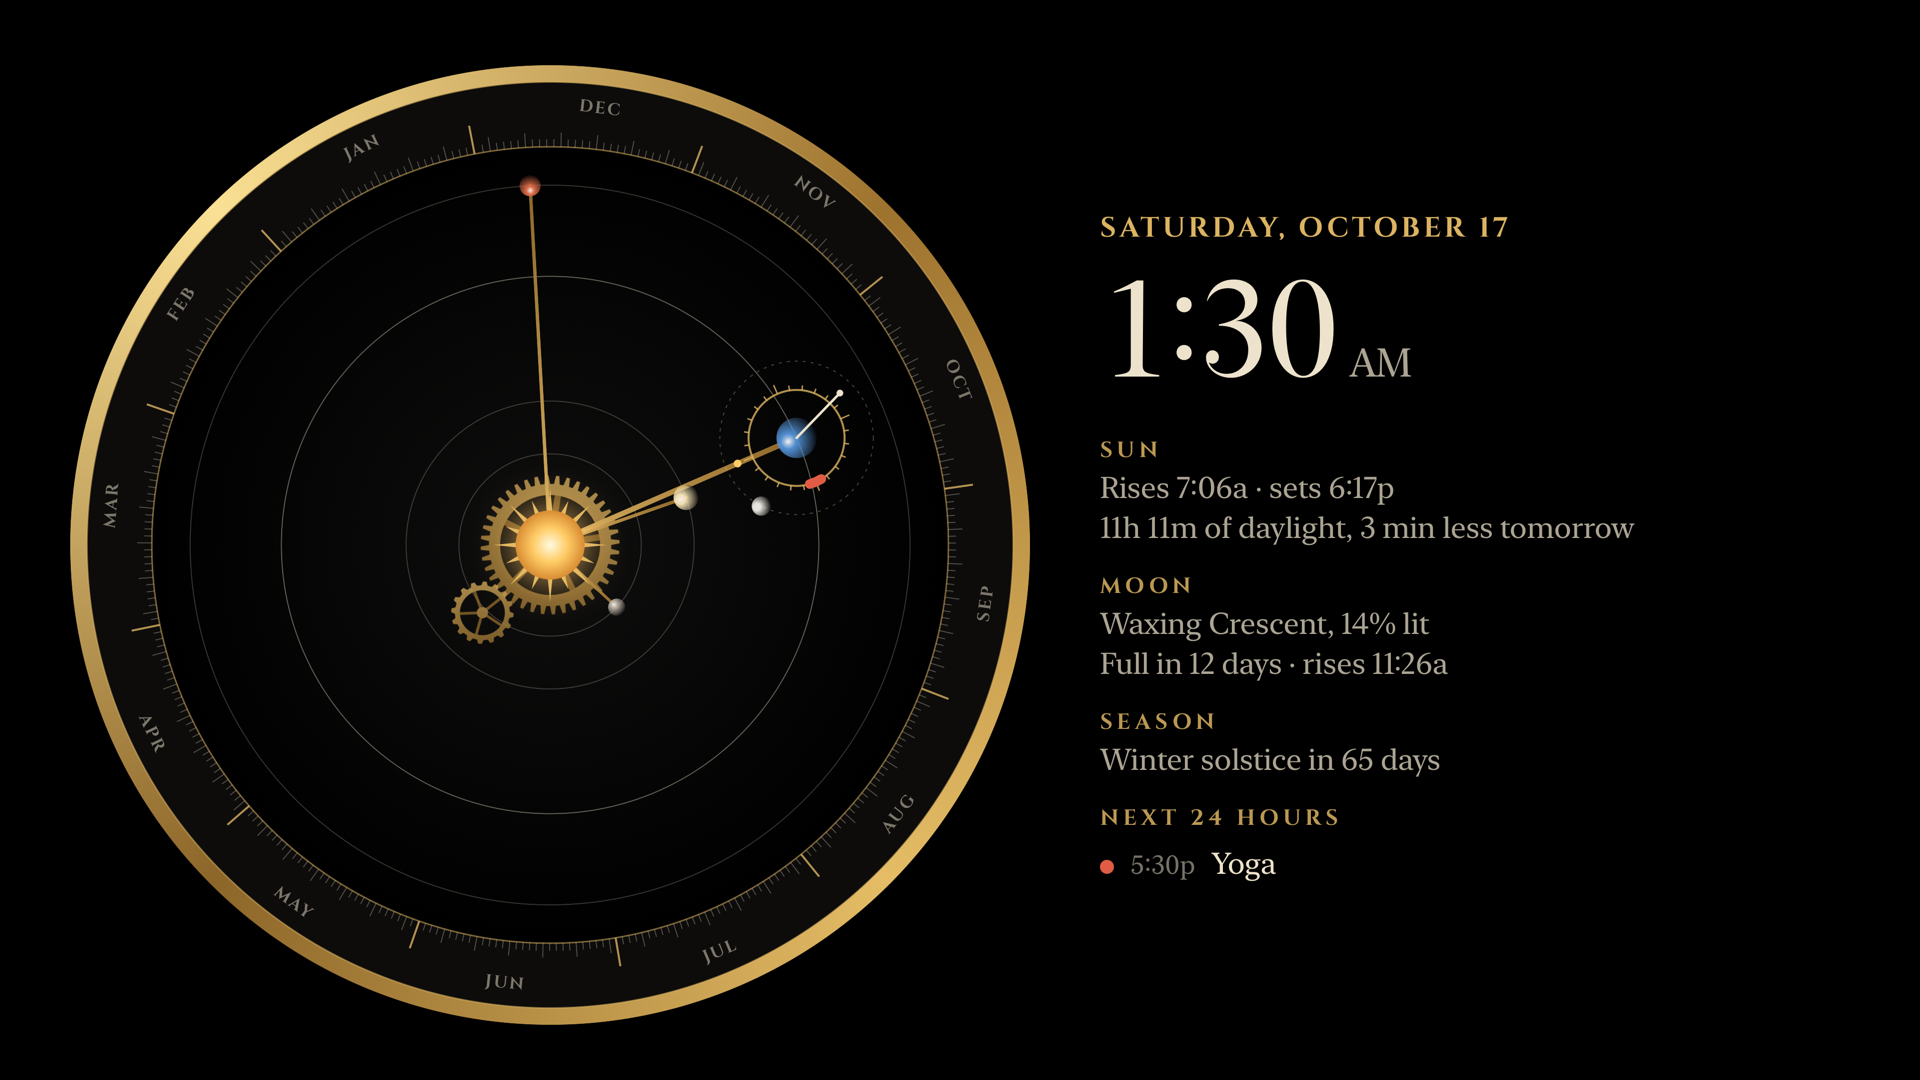
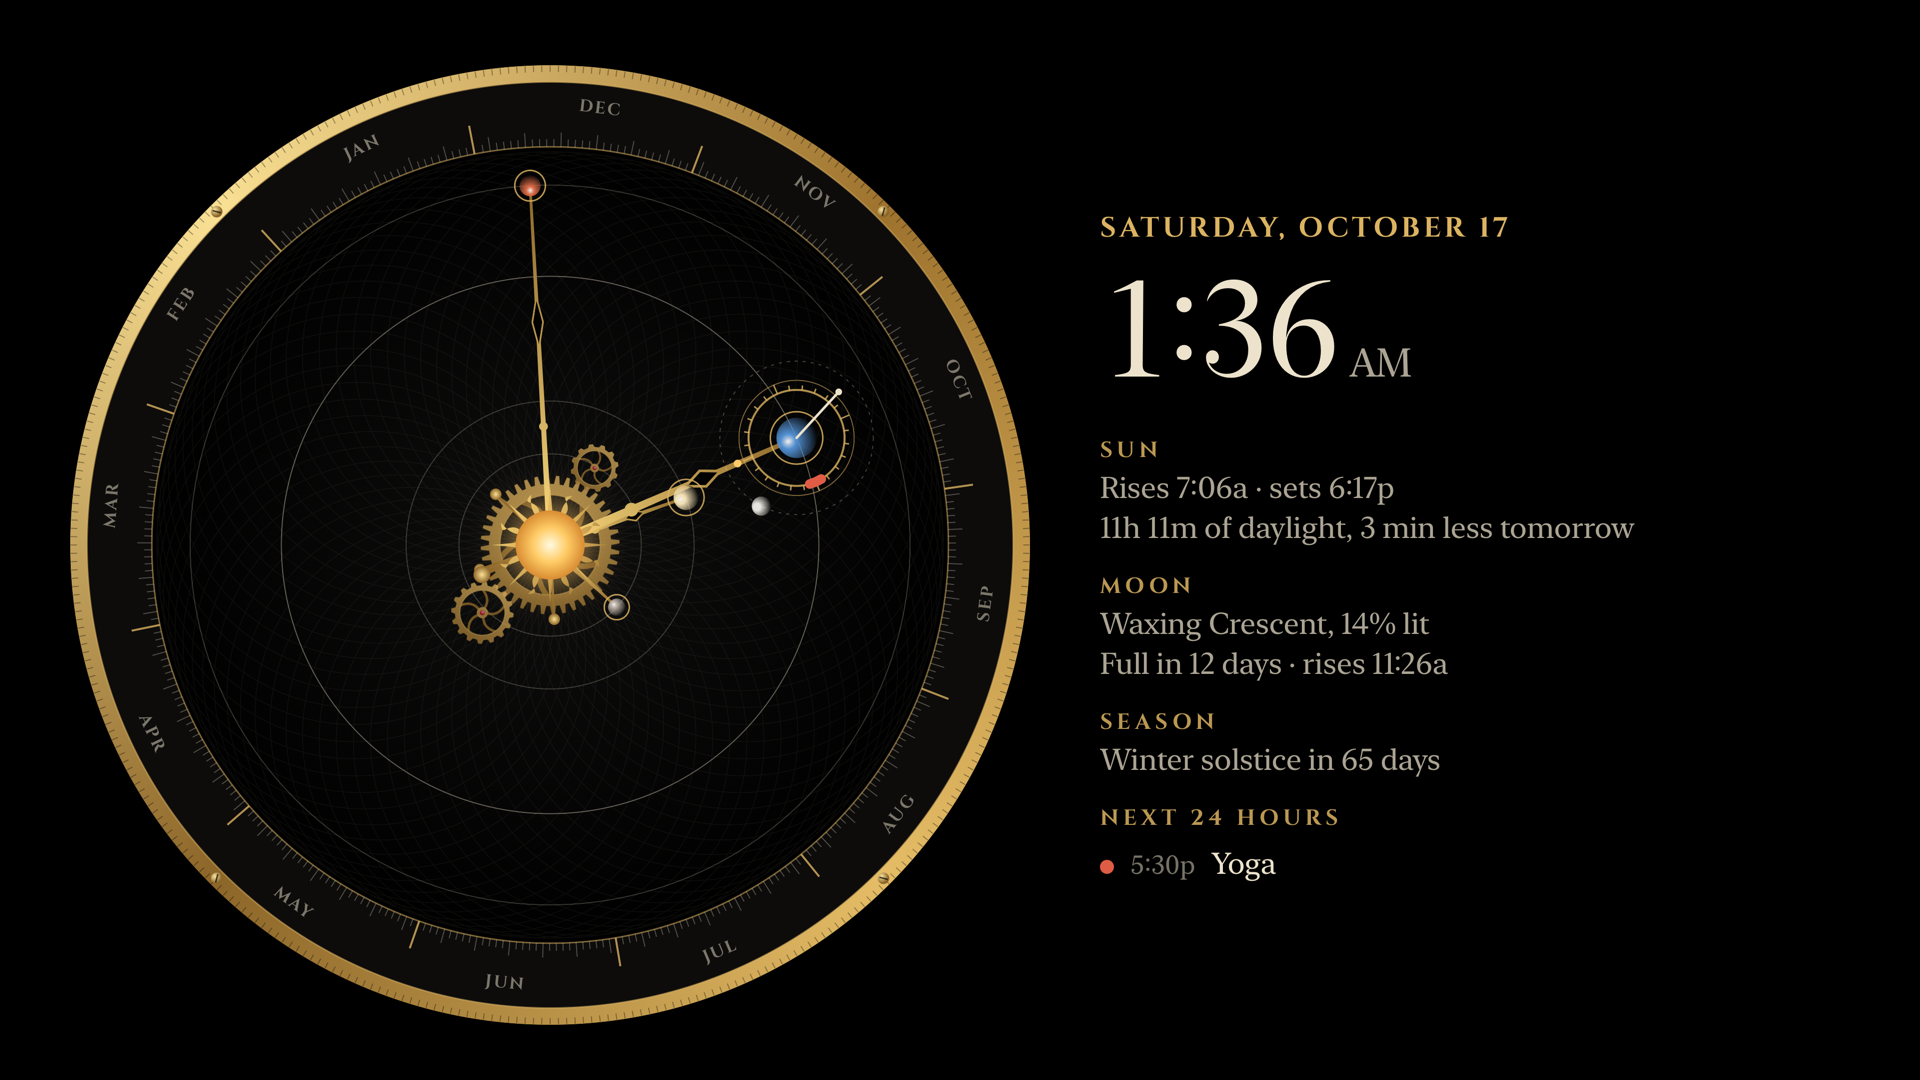
Orrery: a more ornate mechanism
A guilloché rosette engraved in the plate; a milled bezel held by four
slotted screws; arms that taper to their planets with a bead, a
pierced lozenge and a counterweight; brass collars round the planets;
straight rays between wavy flames on the sun; watch wheels with curved
spokes and ruby jewels, and a third wheel in the train; a double
chapter ring round the earth.

Claude-Session: https://claude.ai/code/session_01QaEePrhs7chuVPKev8dxuX

Changed region(s): [[0.2188, 0.3972, 0.375, 0.5806], [0.6562, 0.2444, 0.7188, 0.3361], [0.4062, 0.3667, 0.4375, 0.3972]]

diff --git a/HomeDashboardTV/UI/OrreryView.swift b/HomeDashboardTV/UI/OrreryView.swift
@@ -199,6 +199,32 @@ private struct Plate: View, Equatable {
                     .foregroundStyle(Ink.faint), at: .zero)
             }
 
+            // A guilloché rosette engraved in the enamel: circles through the centre, turned a
+            // little each, their overlaps making the pattern.
+            var rosette = Path()
+            for k in 0..<72 {
+                rosette.addPath(circle(at(c, r * 0.41, Double(k) * 5), r * 0.41))
+            }
+            context.stroke(rosette, with: .color(Ink.ivory.opacity(0.05)), lineWidth: 0.8)
+
+            // The bezel's milled edge, and four slotted screws holding it.
+            var milling = Path()
+            for k in 0..<360 {
+                milling.move(to: at(c, r * 0.999, Double(k)))
+                milling.addLine(to: at(c, r * 0.986, Double(k)))
+            }
+            context.stroke(milling, with: .color(.black.opacity(0.35)), lineWidth: 1)
+            for a in [45.0, 135, 225, 315] {
+                let p = at(c, r - bezel / 2, a)
+                context.fill(circle(p, r * 0.012), with: .radialGradient(
+                    Gradient(colors: [Color(red: 0.98, green: 0.9, blue: 0.62), Ink.deepBrass]),
+                    center: CGPoint(x: p.x - r * 0.004, y: p.y - r * 0.004), startRadius: 0, endRadius: r * 0.014))
+                var slot = Path()
+                slot.move(to: at(p, r * 0.009, a + 30))
+                slot.addLine(to: at(p, r * 0.009, a + 210))
+                context.stroke(slot, with: .color(.black.opacity(0.7)), lineWidth: r * 0.003)
+            }
+
             // The orbits, engraved; the earth's a little brighter.
             for (orbit, alpha) in [(Orbit.mercury, 0.22), (Orbit.venus, 0.22), (Orbit.earth, 0.4), (Orbit.mars, 0.22)] {
                 context.stroke(circle(c, r * orbit), with: .color(Ink.ivory.opacity(alpha)), lineWidth: 1)
@@ -225,6 +251,10 @@ private struct Gears: View {
                     .frame(width: radius * 0.13, height: radius * 0.13)
                     .rotationEffect(.degrees(-beat * 360 / 16 + 360 / 32))
                     .offset(x: radius * 0.2 * CGFloat(cos(.pi * 1.25)), y: -radius * 0.2 * CGFloat(sin(.pi * 1.25)))
+                Gear(teeth: 12)
+                    .frame(width: radius * 0.1, height: radius * 0.1)
+                    .rotationEffect(.degrees(-beat * 360 / 12))
+                    .offset(x: radius * 0.185 * CGFloat(cos(Double.pi / 3)), y: -radius * 0.185 * CGFloat(sin(Double.pi / 3)))
             }
         }
     }
@@ -236,7 +266,7 @@ private struct Gears: View {
     }
 }
 
-/// A brass wheel: toothed rim, five spokes and a hub.
+/// A brass wheel, as in a watch: toothed rim, five curved spokes, and a jewel at the pivot.
 private struct Gear: View, Equatable {
     let teeth: Int
 
@@ -261,13 +291,18 @@ private struct Gear: View, Equatable {
                 let a = Double(k) * 72
                 var spoke = Path()
                 spoke.move(to: at(c, r * 0.14, a))
-                spoke.addLine(to: at(c, r * 0.74, a))
-                context.stroke(spoke, with: .color(Ink.deepBrass), lineWidth: r * 0.09)
+                spoke.addQuadCurve(to: at(c, r * 0.74, a + 24), control: at(c, r * 0.5, a - 8))
+                context.stroke(spoke, with: .color(Ink.deepBrass), style: StrokeStyle(lineWidth: r * 0.08, lineCap: .round))
             }
             let shade = GraphicsContext.Shading.linearGradient(
                 Gradient(colors: [Ink.brass, Ink.deepBrass]), startPoint: .zero, endPoint: CGPoint(x: size.width, y: size.height))
             context.fill(rim, with: shade, style: FillStyle(eoFill: true))
+            context.stroke(circle(c, r * 0.72), with: .color(Ink.brass.opacity(0.6)), lineWidth: 1)
             context.fill(circle(c, r * 0.18), with: shade)
+            // The jewel: a ruby bearing with a glint.
+            context.fill(circle(c, r * 0.08), with: .radialGradient(
+                Gradient(colors: [Color(red: 1, green: 0.55, blue: 0.6), Color(red: 0.6, green: 0.04, blue: 0.12)]),
+                center: CGPoint(x: c.x - r * 0.02, y: c.y - r * 0.02), startRadius: 0, endRadius: r * 0.09))
         }
         .opacity(0.8)
     }
@@ -330,19 +365,28 @@ private struct Mechanism: View, Animatable {
 
             // The arms, from the hub out to each planet.
             for p in planets {
-                arm(context, from: c, to: at(c, r * p.orbit, p.angle), width: r * p.arm)
+                arm(context, centre: c, angle: p.angle, length: r * p.orbit, width: r * p.arm, r: r)
             }
-            arm(context, from: c, to: e, width: r * 0.011)
+            arm(context, centre: c, angle: earthAngle, length: r * Orbit.earth, width: r * 0.011, r: r)
 
             // The sun: rays, then a glowing disc.
+            // Straight rays between wavy flames, as on an old engraving's sun.
             var rays = Path()
             for k in 0..<16 {
                 let a = Double(k) * 22.5
                 rays.move(to: at(c, r * 0.07, a - 4))
-                rays.addLine(to: at(c, r * (k % 2 == 0 ? 0.118 : 0.1), a))
+                if k % 2 == 0 {
+                    rays.addLine(to: at(c, r * 0.122, a))
+                } else {
+                    rays.addQuadCurve(to: at(c, r * 0.098, a + 3), control: at(c, r * 0.085, a - 7))
+                    rays.addQuadCurve(to: at(c, r * 0.112, a - 2), control: at(c, r * 0.106, a + 8))
+                    rays.addQuadCurve(to: at(c, r * 0.07, a + 4), control: at(c, r * 0.09, a + 6))
+                }
                 rays.addLine(to: at(c, r * 0.07, a + 4))
             }
-            context.fill(rays, with: .color(Ink.brass))
+            context.fill(rays, with: .linearGradient(Gradient(colors: [Color(red: 0.98, green: 0.86, blue: 0.5), Ink.deepBrass]),
+                                                     startPoint: CGPoint(x: c.x - r * 0.12, y: c.y - r * 0.12),
+                                                     endPoint: CGPoint(x: c.x + r * 0.12, y: c.y + r * 0.12)))
             var glow = context
             glow.addFilter(.blur(radius: r * 0.04))
             glow.fill(circle(c, r * 0.08), with: .color(Color(red: 1.0, green: 0.78, blue: 0.4).opacity(0.7)))
@@ -352,7 +396,9 @@ private struct Mechanism: View, Animatable {
                 center: c, startRadius: 0, endRadius: r * 0.072))
 
             for p in planets {
-                sphere(context, at: at(c, r * p.orbit, p.angle), radius: r * p.size, colour: p.colour, sun: c)
+                let spot = at(c, r * p.orbit, p.angle)
+                context.stroke(circle(spot, r * p.size * 1.45), with: .color(Ink.brass.opacity(0.85)), lineWidth: 1.5)
+                sphere(context, at: spot, radius: r * p.size, colour: p.colour, sun: c)
             }
 
             // Round the earth: the moon's orbit, the day ring with its events and its hand.
@@ -360,6 +406,7 @@ private struct Mechanism: View, Animatable {
             context.stroke(circle(e, r * Orbit.moon), with: .color(Ink.ivory.opacity(0.28)),
                            style: StrokeStyle(lineWidth: 1, dash: [3, 5]))
             context.stroke(circle(e, r * Orbit.day), with: .color(Ink.brass.opacity(0.8)), lineWidth: 2)
+            context.stroke(circle(e, r * (Orbit.day + 0.02)), with: .color(Ink.brass.opacity(0.55)), lineWidth: 1)
             func onRing(_ hour: Double) -> Double { toSun + (hour - 12) / 24 * 360 }
             var hours = Path()
             for h in 0..<24 {
@@ -377,6 +424,7 @@ private struct Mechanism: View, Animatable {
             }
             // Noon faces the sun.
             context.fill(circle(at(e, r * (Orbit.day + 0.034), toSun), r * 0.008), with: .color(Color(red: 1, green: 0.8, blue: 0.4)))
+            context.stroke(circle(e, r * 0.042 * 1.3), with: .color(Ink.brass.opacity(0.85)), lineWidth: 1.5)
             sphere(context, at: e, radius: r * 0.042, colour: Color(red: 0.32, green: 0.56, blue: 0.82), sun: c)
             var hand = Path()
             let handAngle = onRing(state.hour) - (1 - swing) * 240
@@ -392,13 +440,52 @@ private struct Mechanism: View, Animatable {
         }
     }
 
-    /// A brass arm, shaded along its length, with a pivot at its end.
-    private func arm(_ context: GraphicsContext, from a: CGPoint, to b: CGPoint, width: CGFloat) {
-        var path = Path()
-        path.move(to: a)
-        path.addLine(to: b)
-        context.stroke(path, with: .linearGradient(Gradient(colors: [Ink.brass, Ink.deepBrass]), startPoint: a, endPoint: b),
-                       style: StrokeStyle(lineWidth: width, lineCap: .round))
+    /// A brass arm from the hub, tapering to its planet, with a bead and a pierced lozenge
+    /// along it and a counterweight on the hub's far side.
+    private func arm(_ context: GraphicsContext, centre c: CGPoint, angle: Double, length: CGFloat, width: CGFloat, r: CGFloat) {
+        let tip = at(c, length, angle)
+        // Out past the sun's rays, so it shows.
+        let tail = at(c, r * 0.155, angle + 180)
+        func side(_ distance: CGFloat, _ half: CGFloat) -> (CGPoint, CGPoint) {
+            let p = at(c, distance, angle)
+            return (at(p, half, angle + 90), at(p, half, angle - 90))
+        }
+        let (rootL, rootR) = side(0, width * 0.9)
+        let (tipL, tipR) = side(length, width * 0.4)
+        var body = Path()
+        body.move(to: rootL)
+        body.addLine(to: tipL)
+        body.addLine(to: tipR)
+        body.addLine(to: rootR)
+        body.closeSubpath()
+        let shade = GraphicsContext.Shading.linearGradient(Gradient(colors: [Color(red: 0.98, green: 0.86, blue: 0.5), Ink.deepBrass]),
+                                                           startPoint: c, endPoint: tip)
+        context.fill(body, with: shade)
+
+        // The counterweight, on a short stub behind the hub.
+        var stub = Path()
+        stub.move(to: c)
+        stub.addLine(to: tail)
+        context.stroke(stub, with: .color(Ink.deepBrass), style: StrokeStyle(lineWidth: width * 0.8, lineCap: .round))
+        context.fill(circle(tail, max(width * 1.6, r * 0.012)), with: .radialGradient(
+            Gradient(colors: [Color(red: 0.98, green: 0.88, blue: 0.58), Ink.deepBrass]),
+            center: tail, startRadius: 0, endRadius: max(width * 1.6, r * 0.012)))
+
+        // A bead a third of the way out, and a pierced lozenge beyond it on the longer arms.
+        context.fill(circle(at(c, length * 0.33, angle), width * 1.3), with: shade)
+        if length > r * 0.25 {
+            let mid = at(c, length * 0.62, angle)
+            let along = length * 0.07
+            var lozenge = Path()
+            lozenge.move(to: at(mid, along, angle))
+            lozenge.addLine(to: at(mid, width * 1.6, angle + 90))
+            lozenge.addLine(to: at(mid, along, angle + 180))
+            lozenge.addLine(to: at(mid, width * 1.6, angle - 90))
+            lozenge.closeSubpath()
+            // Pierced: the plate's black shows through, inside a brass frame.
+            context.fill(lozenge, with: .color(.black))
+            context.stroke(lozenge, with: shade, lineWidth: max(1.5, width * 0.5))
+        }
     }
 
     /// A ball lit from the sun: bright on its sunward side, falling to near black away from it.
